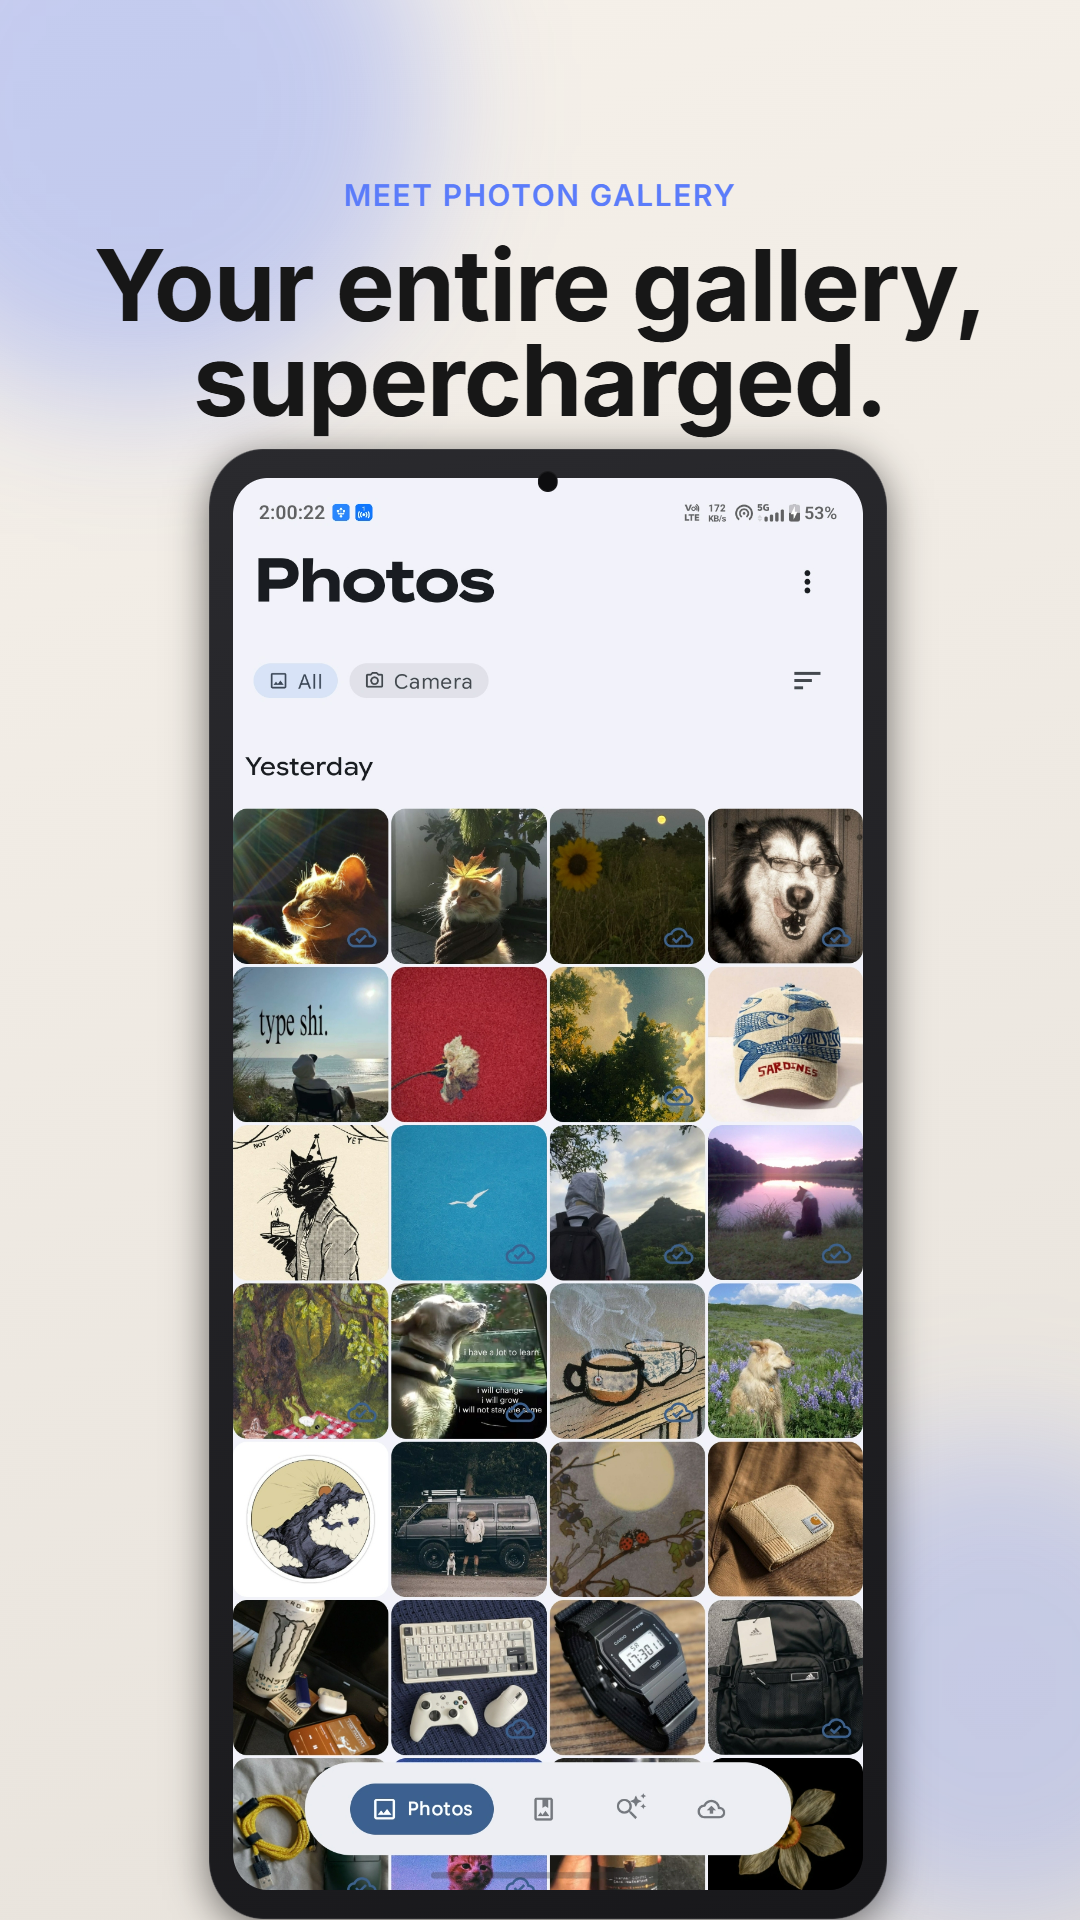
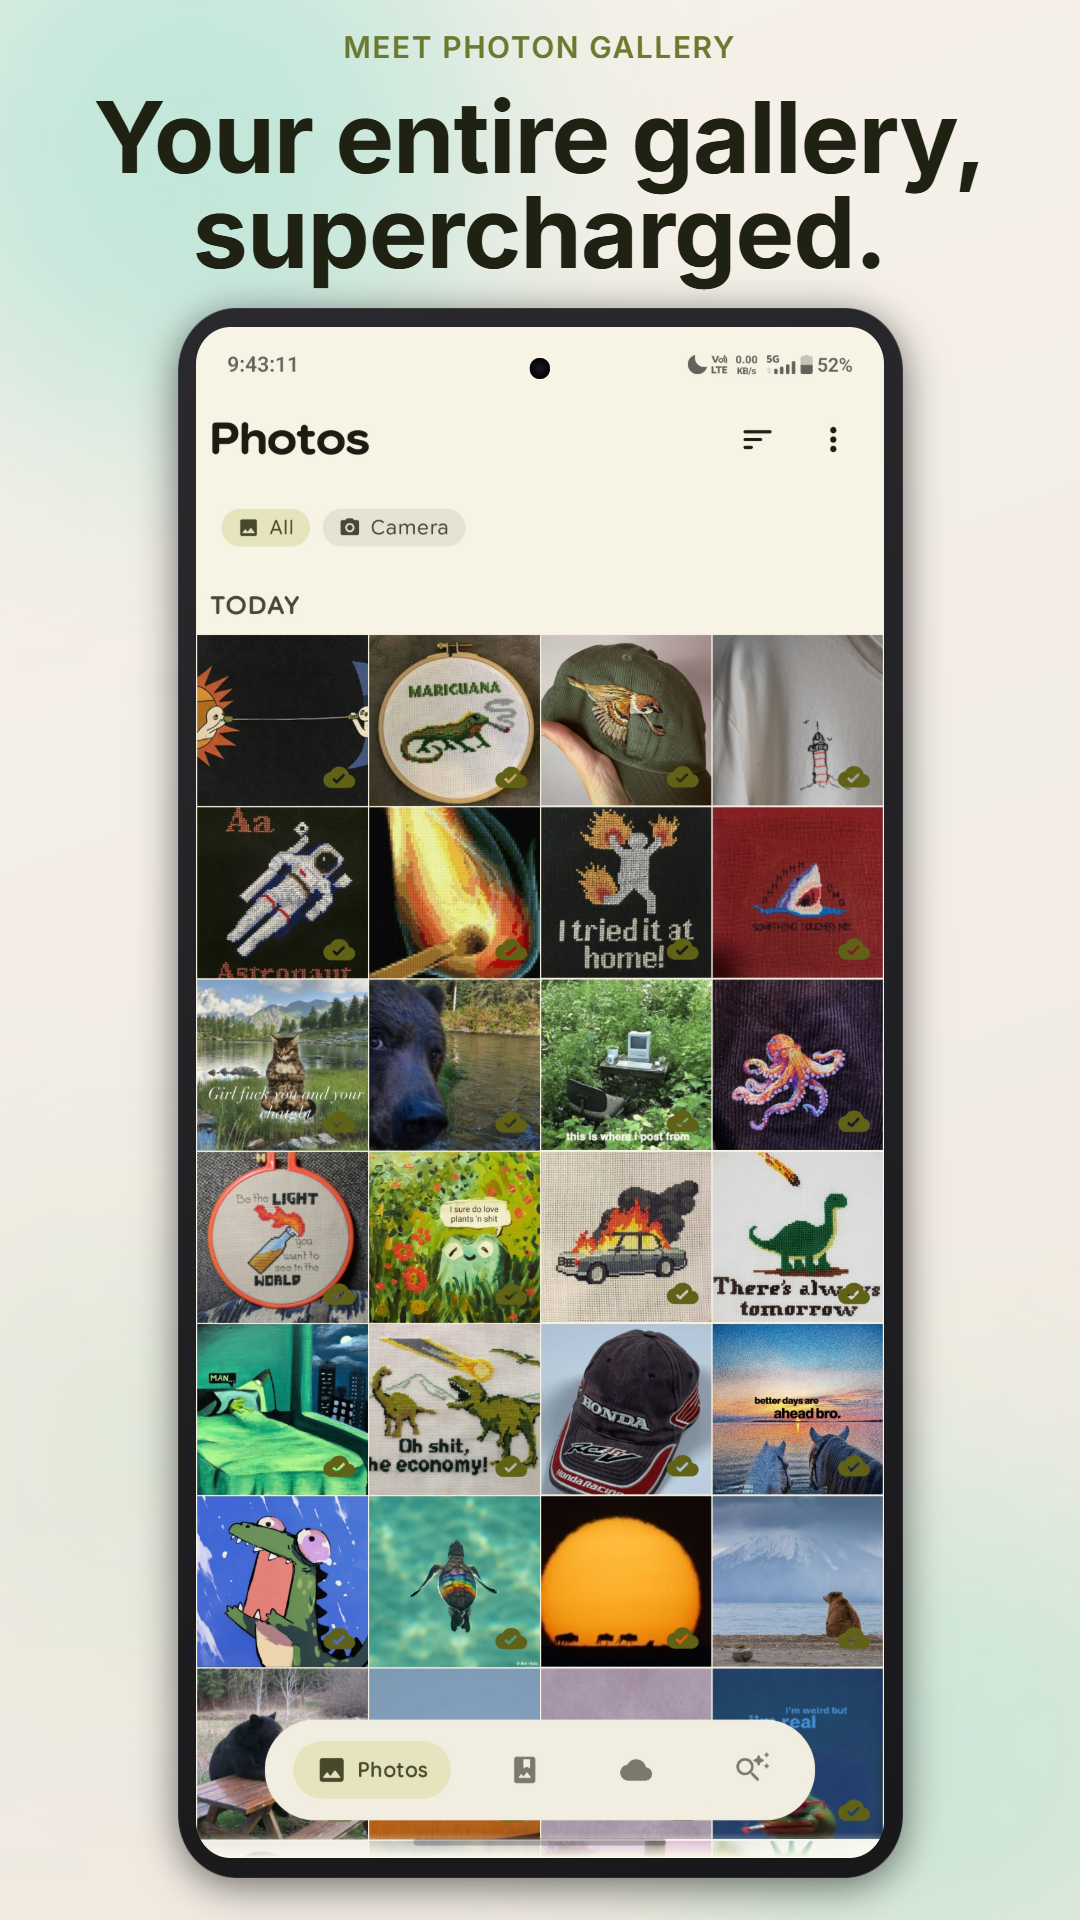
Update screenshots: 8 new high-quality screenshots in 4x2 grid layout

diff --git a/README.md b/README.md
@@ -54,13 +54,13 @@
 
 ## Screenshots
 
-| Hero View | Main Gallery Grid | Smart Search |
-| :---: | :---: | :---: |
-| <img src="screenshots/01-hero.png" width="240" alt="Hero View" /> | <img src="screenshots/02-device-bottom.png" width="240" alt="Main Gallery Grid" /> | <img src="screenshots/03-device-top.png" width="240" alt="Smart Search" /> |
+| Gallery | Albums | Cloud Backup | Smart Search |
+| :---: | :---: | :---: | :---: |
+| <img src="screenshots/01-hero.png" width="200" alt="Gallery" /> | <img src="screenshots/02-device-top.png" width="200" alt="Albums" /> | <img src="screenshots/03-device-bottom.png" width="200" alt="Cloud Backup" /> | <img src="screenshots/04-device-bottom.png" width="200" alt="Smart Search" /> |
 
-| Cloud Sync | Advanced Settings |
-| :---: | :---: |
-| <img src="screenshots/04-two-devices.png" width="240" alt="Cloud Sync" /> | <img src="screenshots/05-no-device.png" width="240" alt="Advanced Settings" /> |
+| Image Viewer | Video Player | Collage Builder | Settings |
+| :---: | :---: | :---: | :---: |
+| <img src="screenshots/05-device-top.png" width="200" alt="Image Viewer" /> | <img src="screenshots/06-device-bottom.png" width="200" alt="Video Player" /> | <img src="screenshots/07-two-devices.png" width="200" alt="Collage Builder" /> | <img src="screenshots/08-no-device.png" width="200" alt="Settings" /> |
 
 ---
 